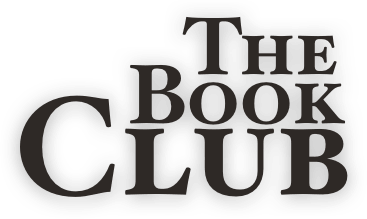
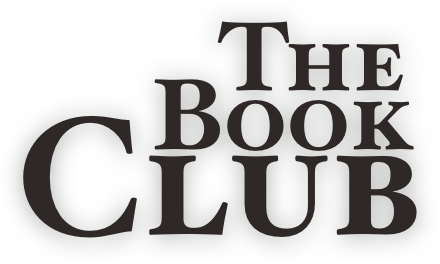
fixed svg images

diff --git a/views/bookclub.html b/views/bookclub.html
@@ -46,7 +46,7 @@
 
             <!-- Header icons -->
             <header>
-                <div id="logo"><a href="../index.html"><img src="../imgs/logo.svg" alt="Jose Plata"></a></div>
+                <div id="logo"><a href="../index.html"><img src="../imgs/logo.png" alt="Jose Plata"></a></div>
                 <div class="info-button"><a href="javascript:void(0);" onclick="toggle();"><h4>info</h4></a></div>
             </header>
             <!-- Project View -->
@@ -99,7 +99,7 @@
                             <img src="../imgs/bc05.png" alt="">
                             <img src="../imgs/bc06.png" alt="">
                             <img src="../imgs/bc07.png" alt="">
-                            <img src="../imgs/bc.svg" alt="" style="height:20rem ; padding-bottom: 4rem">
+                            <img src="../imgs/bc00.png" alt="" style="height:20rem ; padding-bottom: 4rem">
                         </div>
                     </div>
                     <div class="row">

diff --git a/css/style.css b/css/style.css
@@ -285,7 +285,8 @@ p {
   padding-bottom: 0.5rem; }
 
 .introduction {
-  background: url("../imgs/backg.svg") center no-repeat; }
+  background: url("../imgs/backg.png") center no-repeat;
+  background-size: 70%; }
   .introduction .information {
     padding-top: 30vh; }
   .introduction .social-icons li {
@@ -295,7 +296,8 @@ p {
     content: "🗽"; }
 
 .project-list {
-  background: url("../imgs/work.svg") center no-repeat; }
+  background: url("../imgs/work.png") center no-repeat;
+  background-size: 100%; }
 
 .project {
   padding-bottom: 1rem; }
@@ -309,7 +311,8 @@ p {
     width: 100%; }
 
 .blog-section {
-  background: url("../imgs/blog.svg") center no-repeat; }
+  background: url("../imgs/blog.png") center no-repeat;
+  background-size: 40%; }
 
 .project-container {
   padding-bottom: 0; }

diff --git a/css/style.sass b/css/style.sass
@@ -291,7 +291,9 @@ p
 
 // Main Info section
 .introduction
-	background: url('../imgs/backg.svg') center no-repeat
+	background: url('../imgs/backg.png') center no-repeat
+	background-size: 70%
+
 	.information
 		padding-top: 30vh
 
@@ -303,7 +305,8 @@ p
 
 // Project-list
 .project-list
-	background: url('../imgs/work.svg') center no-repeat
+	background: url('../imgs/work.png') center no-repeat
+	background-size: 100%
 
 .project
 	padding-bottom: 1rem
@@ -318,7 +321,8 @@ p
 		width: 100%
 
 .blog-section
-	background: url('../imgs/blog.svg') center no-repeat
+	background: url('../imgs/blog.png') center no-repeat
+	background-size: 40%
 
 .project-container
 	padding-bottom: 0

diff --git a/views/illustrations.html b/views/illustrations.html
@@ -46,7 +46,7 @@
 
             <!-- Header icons -->
             <header>
-                <div id="logo"><a href="../index.html"><img src="../imgs/logo.svg" alt="Jose Plata"></a></div>
+                <div id="logo"><a href="../index.html"><img src="../imgs/logo.png" alt="Jose Plata"></a></div>
                 <div class="info-button"><a href="javascript:void(0);" onclick="toggle();"><h4>info</h4></a></div>
             </header>
             <!-- Project View -->

diff --git a/views/foundframe.html b/views/foundframe.html
@@ -46,7 +46,7 @@
 
             <!-- Header icons -->
             <header>
-                <div id="logo"><a href="../index.html"><img src="../imgs/logo.svg" alt="Jose Plata"></a></div>
+                <div id="logo"><a href="../index.html"><img src="../imgs/logo.png" alt="Jose Plata"></a></div>
                 <div class="info-button"><a href="javascript:void(0);" onclick="toggle();"><h4>info</h4></a></div>
             </header>
 

diff --git a/views/mixt.html b/views/mixt.html
@@ -46,7 +46,7 @@
 
             <!-- Header icons -->
             <header>
-                <div id="logo"><a href="../index.html"><img src="../imgs/logo.svg" alt="Jose Plata"></a></div>
+                <div id="logo"><a href="../index.html"><img src="../imgs/logo.png" alt="Jose Plata"></a></div>
                 <div class="info-button"><a href="javascript:void(0);" onclick="toggle();"><h4>info</h4></a></div>
             </header>
 

diff --git a/index.html b/index.html
@@ -46,7 +46,7 @@
 
             <!-- Header icons -->
             <header>
-            	<div id="logo"><a href=""><img src="imgs/logo.svg" alt="Jose Plata"></a></div>
+            	<div id="logo"><a href=""><img src="imgs/logo.png" alt="Jose Plata"></a></div>
             	<div class="info-button right">
                     <a href="javascript:void(0);" onclick="toggle();"><h4>info</h4></a>
                 </div>
